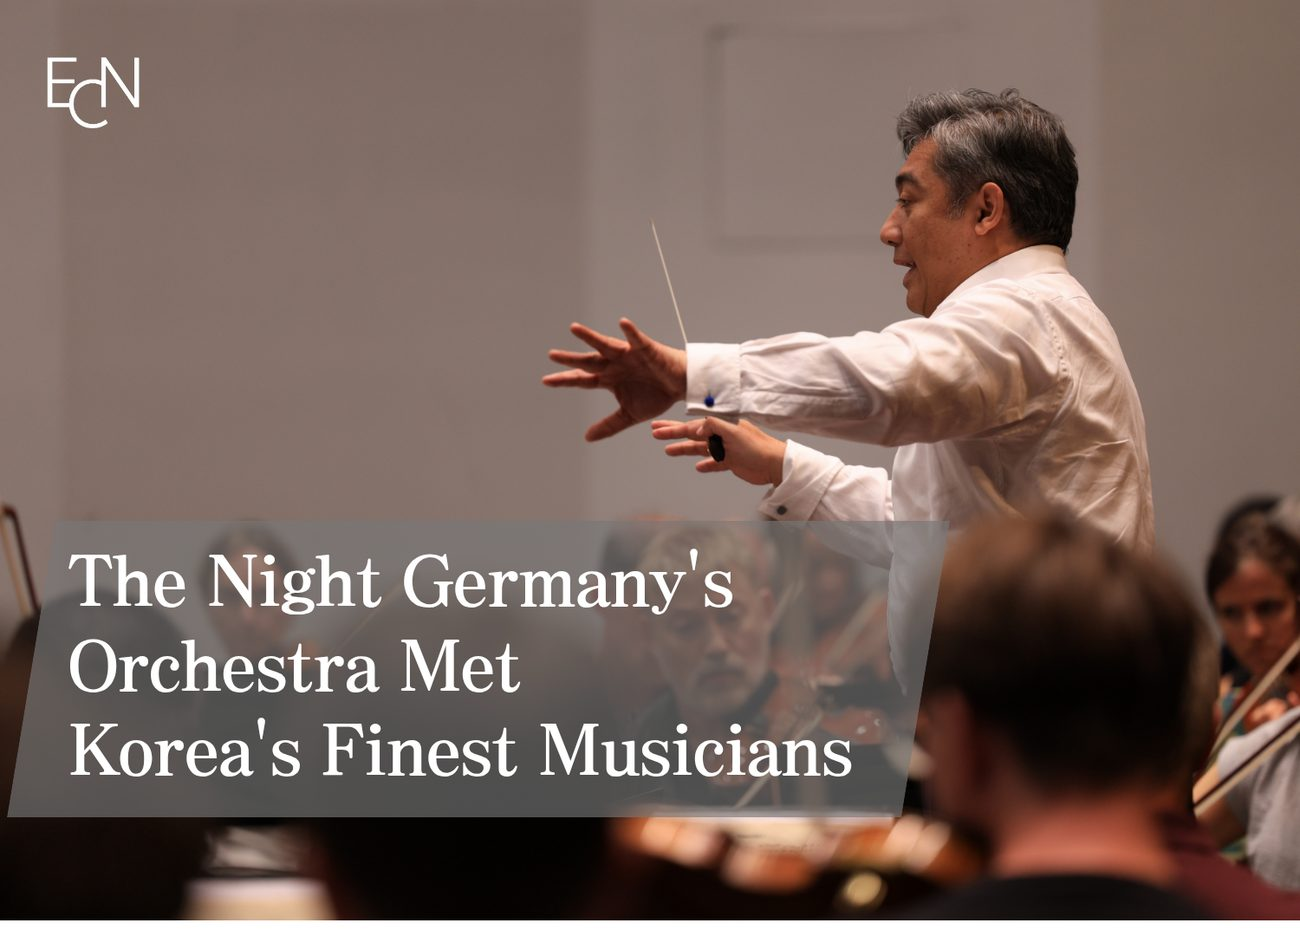
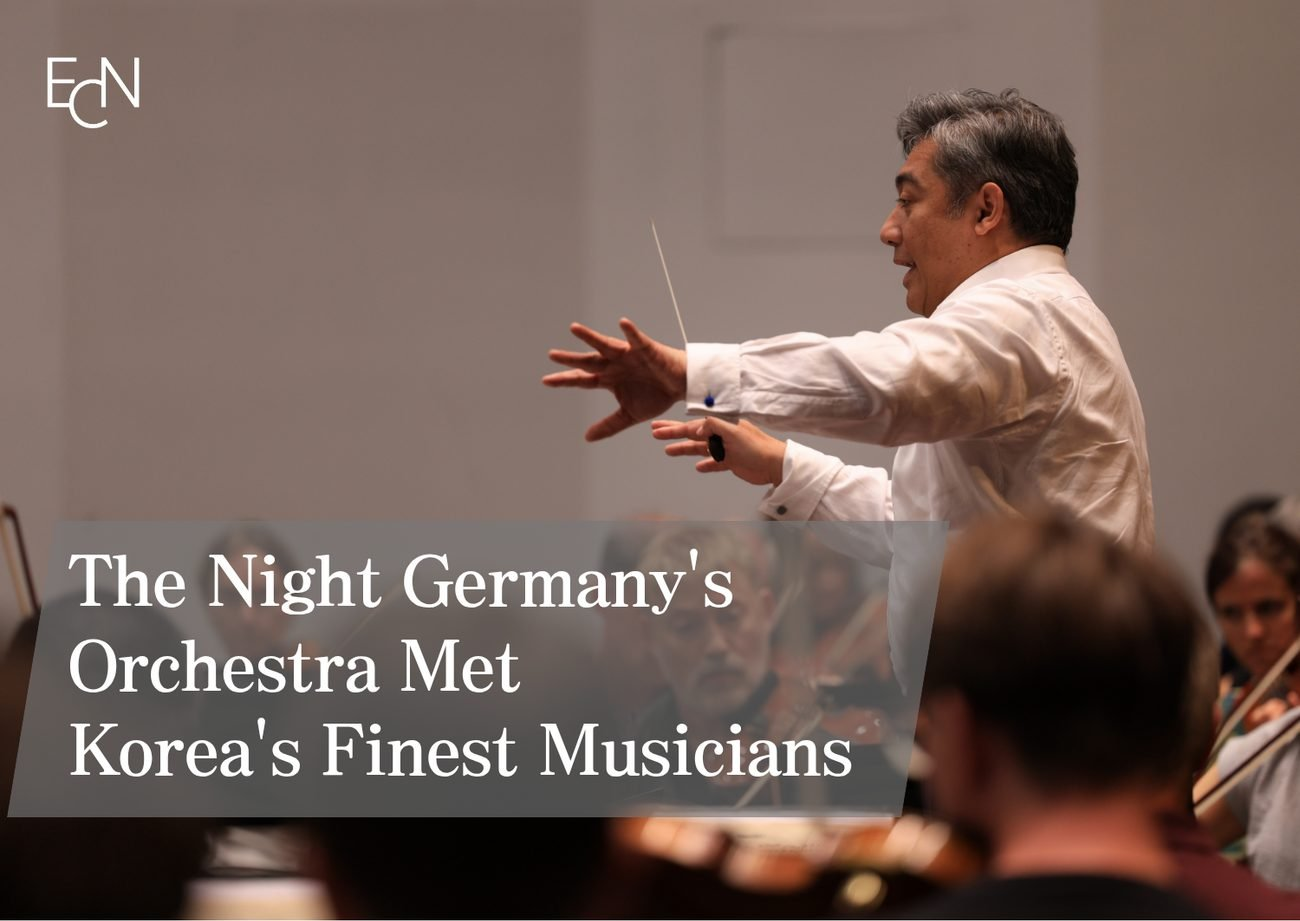
다시 수정

diff --git a/index.html b/index.html
@@ -91,11 +91,15 @@
   .topbar__left { display: flex; gap: 20px; align-items: center; flex-wrap: wrap; }
   .topbar__right { display: flex; gap: 18px; align-items: center; }
   .topbar__right a { position: relative; }
+  .topbar__ig { display: inline-flex; align-items: center; }
+  .topbar__ig svg { display: block; }
+  .topbar__ig:hover { color: var(--wine); }
   .topbar__right a + a::before {
     content: "";
     position: absolute; left: -10px; top: 50%; transform: translateY(-50%);
     width: 1px; height: 11px; background: var(--rule);
   }
+  .topbar__right a + a.topbar__ig::before { display: none; }
 
   /* ---------- Masthead ---------- */
   .masthead {
@@ -823,9 +827,10 @@
   .carousel__slide.is-on { opacity: 1; pointer-events: auto; }
   .carousel__slide img {
     width: 100%; height: 100%;
-    object-fit: cover; object-position: center 40%;
+    object-fit: cover; object-position: center center;
     display: block;
   }
+  .hero-v2__image .carousel__slide img { object-position: center center; }
   .carousel__nav {
     position: absolute; top: 50%; transform: translateY(-50%);
     width: 42px; height: 42px;
@@ -964,6 +969,32 @@
     transition: color 0.2s;
   }
   .icon-btn:hover { color: var(--wine); }
+
+  /* Share menu */
+  .share-wrap { position: relative; display: inline-block; }
+  .share-menu {
+    position: absolute; right: 0; bottom: calc(100% + 8px); z-index: 40;
+    min-width: 150px; padding: 6px;
+    background: var(--paper); border: 1px solid var(--rule);
+    border-radius: 4px; box-shadow: 0 8px 24px rgba(23,22,20,0.14);
+    display: flex; flex-direction: column;
+  }
+  .share-menu[hidden] { display: none; }
+  .share-menu a, .share-menu button {
+    display: block; width: 100%; text-align: left;
+    padding: 9px 12px; border: 0; background: transparent;
+    font-family: var(--f-ui); font-size: 12px; letter-spacing: 0.04em;
+    color: var(--ink-mute); border-radius: 3px; cursor: pointer;
+  }
+  .share-menu a:hover, .share-menu button:hover { background: var(--paper-warm); color: var(--wine); }
+  .share-toast {
+    position: fixed; left: 50%; bottom: 34px; transform: translateX(-50%);
+    background: var(--ink); color: var(--paper);
+    padding: 11px 22px; border-radius: 999px;
+    font-family: var(--f-ui); font-size: 12px; letter-spacing: 0.04em;
+    opacity: 0; pointer-events: none; transition: opacity 0.25s; z-index: 100;
+  }
+  .share-toast.is-on { opacity: 1; }
 
   /* Most Read sidebar */
   .most-read {
@@ -1333,7 +1364,13 @@
     </div>
     <div class="topbar__right">
       <a href="#downbeat">Newsletter</a>
-      <a href="ecn.html">About</a>
+      <a href="https://www.instagram.com/eurasiaclassicnews" target="_blank" rel="noopener" aria-label="ECN on Instagram" class="topbar__ig">
+        <svg viewBox="0 0 24 24" width="16" height="16" fill="none" stroke="currentColor" stroke-width="1.6" aria-hidden="true">
+          <rect x="2.5" y="2.5" width="19" height="19" rx="5.5"/>
+          <circle cx="12" cy="12" r="4.2"/>
+          <circle cx="17.4" cy="6.6" r="1.1" fill="currentColor" stroke="none"/>
+        </svg>
+      </a>
     </div>
   </div>
 
@@ -1429,7 +1466,15 @@
         <div class="hero-v2__actions" aria-label="Article actions">
           <a href="articles.html" class="hero-v2__read">Read the full article →</a>
           <button class="icon-btn" aria-label="Save"><svg viewBox="0 0 24 24" width="18" height="18" fill="none" stroke="currentColor" stroke-width="1.5"><path d="M20.84 4.61a5.5 5.5 0 0 0-7.78 0L12 5.67l-1.06-1.06a5.5 5.5 0 0 0-7.78 7.78l1.06 1.06L12 21.23l7.78-7.78 1.06-1.06a5.5 5.5 0 0 0 0-7.78z"/></svg></button>
-          <button class="icon-btn" aria-label="Share"><svg viewBox="0 0 24 24" width="16" height="16" fill="none" stroke="currentColor" stroke-width="1.5"><path d="M7 17L17 7M9 7h8v8"/></svg><span>Share</span></button>
+          <div class="share-wrap">
+            <button class="icon-btn" id="share-btn" aria-label="Share" aria-haspopup="true" aria-expanded="false"><svg viewBox="0 0 24 24" width="16" height="16" fill="none" stroke="currentColor" stroke-width="1.5"><path d="M7 17L17 7M9 7h8v8"/></svg><span>Share</span></button>
+            <div class="share-menu" id="share-menu" role="menu" hidden>
+              <a role="menuitem" href="#" data-share="email">Email</a>
+              <a role="menuitem" href="#" data-share="facebook" target="_blank" rel="noopener">Facebook</a>
+              <a role="menuitem" href="#" data-share="whatsapp" target="_blank" rel="noopener">WhatsApp</a>
+              <button role="menuitem" type="button" data-share="copy">Copy link</button>
+            </div>
+          </div>
         </div>
       </div>
     </article>
@@ -1833,9 +1878,9 @@
     <div class="foot__col">
       <h5>In partnership with IMK</h5>
       <ul>
-        <li>Lothringerstraße 20, 1030 Wien</li>
-        <li><span class="foot__k">Wiener Konzerthaus</span></li>
-        <li><a href="mailto:[email redacted]">[email redacted]</a></li>
+        <li>Verein für Internationale Musik- und Kulturförderung</li>
+        <li><span class="foot__k">Wien</span></li>
+        <li><a href="https://schwingungen.at/" target="_blank" rel="noopener">schwingungen.at →</a></li>
       </ul>
     </div>
 
@@ -1926,6 +1971,79 @@
       }).catch(function () {
         btn.textContent = 'Subscribe →';
         if (note) note.textContent = 'Something went wrong. Please try again.';
+      });
+    });
+  })();
+</script>
+<script>
+  (function () {
+    var btn = document.getElementById('share-btn');
+    var menu = document.getElementById('share-menu');
+    if (!btn || !menu) return;
+
+    // What gets shared: the main article. Adjust title/url as needed.
+    var shareUrl = window.location.origin + window.location.pathname.replace(/index\.html$/, '') ;
+    var shareTitle = document.title;
+
+    function open() { menu.hidden = false; btn.setAttribute('aria-expanded', 'true'); }
+    function close() { menu.hidden = true; btn.setAttribute('aria-expanded', 'false'); }
+
+    btn.addEventListener('click', function (e) {
+      e.stopPropagation();
+      menu.hidden ? open() : close();
+    });
+    document.addEventListener('click', function (e) {
+      if (!menu.hidden && !menu.contains(e.target) && e.target !== btn) close();
+    });
+
+    function toast(msg) {
+      var t = document.createElement('div');
+      t.className = 'share-toast';
+      t.textContent = msg;
+      document.body.appendChild(t);
+      requestAnimationFrame(function () { t.classList.add('is-on'); });
+      setTimeout(function () {
+        t.classList.remove('is-on');
+        setTimeout(function () { t.remove(); }, 300);
+      }, 1800);
+    }
+
+    menu.querySelectorAll('[data-share]').forEach(function (el) {
+      el.addEventListener('click', function (e) {
+        var type = el.getAttribute('data-share');
+        var u = encodeURIComponent(shareUrl);
+        var t = encodeURIComponent(shareTitle);
+
+        if (type === 'email') {
+          window.location.href = 'mailto:?subject=' + t + '&body=' + t + '%0A%0A' + u;
+        } else if (type === 'facebook') {
+          el.href = 'https://www.facebook.com/sharer/sharer.php?u=' + u;
+        } else if (type === 'whatsapp') {
+          el.href = 'https://wa.me/?text=' + t + '%20' + u;
+        } else if (type === 'copy') {
+          e.preventDefault();
+          var link = shareUrl;
+          function fallback() {
+            var ta = document.createElement('textarea');
+            ta.value = link;
+            ta.style.position = 'fixed'; ta.style.opacity = '0';
+            document.body.appendChild(ta); ta.focus(); ta.select();
+            var ok = false;
+            try { ok = document.execCommand('copy'); } catch (err) {}
+            ta.remove();
+            toast(ok ? 'Link copied ✓' : link);
+          }
+          if (navigator.clipboard && navigator.clipboard.writeText) {
+            navigator.clipboard.writeText(link).then(
+              function () { toast('Link copied ✓'); },
+              function () { fallback(); }
+            );
+          } else {
+            fallback();
+          }
+          close();
+        }
+        if (type !== 'copy') close();
       });
     });
   })();

diff --git a/get-featured.html b/get-featured.html
@@ -367,19 +367,19 @@
         <div class="fields">
           <div class="field">
             <label for="a-name">Name <span class="req">*</span></label>
-            <input id="a-name" name="Name" type="text" placeholder="Edwin E.S. Kim" required>
+            <input id="a-name" name="Name" type="text" placeholder="e.g. Anna Müller" required>
           </div>
           <div class="field">
             <label for="a-inst">Instrument <span class="req">*</span></label>
-            <input id="a-inst" name="Instrument" type="text" placeholder="Violin" required>
+            <input id="a-inst" name="Instrument" type="text" placeholder="e.g. Violin" required>
           </div>
           <div class="field">
             <label for="a-country">Country</label>
-            <input id="a-country" name="Country" type="text" placeholder="Republic of Korea">
+            <input id="a-country" name="Country" type="text" placeholder="e.g. Austria">
           </div>
           <div class="field">
             <label for="a-city">Current City</label>
-            <input id="a-city" name="Current City" type="text" placeholder="Seoul">
+            <input id="a-city" name="Current City" type="text" placeholder="e.g. Vienna">
           </div>
           <div class="field field--full">
             <label for="a-bio">Biography <span class="req">*</span></label>
@@ -425,7 +425,7 @@
         <div class="fields">
           <div class="field field--full">
             <label for="p-title">Concert title <span class="req">*</span></label>
-            <input id="p-title" name="Concert title" type="text" placeholder="Stuttgart Philharmonic · First Korea Tour" required>
+            <input id="p-title" name="Concert title" type="text" placeholder="e.g. Spring Gala Concert" required>
           </div>
           <div class="field">
             <label for="p-date">Date <span class="req">*</span></label>
@@ -437,19 +437,19 @@
           </div>
           <div class="field">
             <label for="p-venue">Venue <span class="req">*</span></label>
-            <input id="p-venue" name="Venue" type="text" placeholder="Lotte Concert Hall" required>
+            <input id="p-venue" name="Venue" type="text" placeholder="e.g. Grand Symphony Hall" required>
           </div>
           <div class="field">
             <label for="p-city">City</label>
-            <input id="p-city" name="City" type="text" placeholder="Seoul">
+            <input id="p-city" name="City" type="text" placeholder="e.g. Berlin">
           </div>
           <div class="field field--full">
             <label for="p-artists">Performers</label>
-            <input id="p-artists" name="Performers" type="text" placeholder="Conductor, orchestra, soloists">
+            <input id="p-artists" name="Performers" type="text" placeholder="e.g. City Symphony Orchestra, cond. Anna Müller">
           </div>
           <div class="field field--full">
             <label for="p-programme">Programme</label>
-            <textarea id="p-programme" name="Programme" placeholder="Beethoven — Coriolan Overture, Op. 62&#10;Beethoven — Triple Concerto in C, Op. 56&#10;Beethoven — Symphony No. 4, Op. 60"></textarea>
+            <textarea id="p-programme" name="Programme" placeholder="e.g.&#10;Mozart — Overture&#10;Brahms — Violin Concerto&#10;Dvořák — Symphony No. 9"></textarea>
           </div>
           <div class="field field--full">
             <label for="p-about">About the performance <span class="req">*</span></label>
@@ -475,7 +475,7 @@
 
   <footer class="foot">
     <span>© 2026 Eurasia Classic News · Editor Ji Sun Lee · <a href="mailto:[email redacted]">[email redacted]</a></span>
-    <span>In partnership with IMK · Lothringerstraße 20, 1030 Wien · <a href="mailto:[email redacted]">[email redacted]</a></span>
+    <span>In partnership with IMK · Wien · <a href="https://schwingungen.at/" target="_blank" rel="noopener">schwingungen.at</a></span>
   </footer>
 
 </div>

diff --git a/more.html b/more.html
@@ -448,8 +448,8 @@
       <div class="more-card">
         <h3>IMK</h3>
         <p>Our partner in Vienna.</p>
-        <p class="more-meta">Lothringerstraße 20, 1030 Wien<br>Wiener Konzerthaus</p>
-        <a class="more-link" href="mailto:[email redacted]">[email redacted]</a>
+        <p class="more-meta">Verein für Internationale Musik-<br>und Kulturförderung · Wien</p>
+        <a class="more-link" href="https://schwingungen.at/" target="_blank" rel="noopener">Visit IMK website →</a>
       </div>
 
       <div class="more-card">
@@ -462,7 +462,7 @@
 
   <footer class="foot">
     <span>© 2026 Eurasia Classic News · Editor Ji Sun Lee · <a href="mailto:[email redacted]">[email redacted]</a></span>
-    <span>In partnership with IMK · Lothringerstraße 20, 1030 Wien · <a href="mailto:[email redacted]">[email redacted]</a></span>
+    <span>In partnership with IMK · Wien · <a href="https://schwingungen.at/" target="_blank" rel="noopener">schwingungen.at</a></span>
   </footer>
 
 </div>

diff --git a/articles.html b/articles.html
@@ -534,7 +534,7 @@
 
   <footer class="foot">
     <span>© 2026 Eurasia Classic News · Editor Ji Sun Lee · <a href="mailto:[email redacted]">[email redacted]</a></span>
-    <span>In partnership with IMK · Lothringerstraße 20, 1030 Wien · <a href="mailto:[email redacted]">[email redacted]</a></span>
+    <span>In partnership with IMK · Wien · <a href="https://schwingungen.at/" target="_blank" rel="noopener">schwingungen.at</a></span>
   </footer>
 
 </div>

diff --git a/artists.html b/artists.html
@@ -443,7 +443,7 @@
 
   <footer class="foot">
     <span>© 2026 Eurasia Classic News · Editor Ji Sun Lee · <a href="mailto:[email redacted]">[email redacted]</a></span>
-    <span>In partnership with IMK · Lothringerstraße 20, 1030 Wien · <a href="mailto:[email redacted]">[email redacted]</a></span>
+    <span>In partnership with IMK · Wien · <a href="https://schwingungen.at/" target="_blank" rel="noopener">schwingungen.at</a></span>
   </footer>
 
 </div>

diff --git a/ecn.html b/ecn.html
@@ -473,7 +473,7 @@
 
   <footer class="foot">
     <span>© 2026 Eurasia Classic News · Editor Ji Sun Lee · <a href="mailto:[email redacted]">[email redacted]</a></span>
-    <span>In partnership with IMK · Lothringerstraße 20, 1030 Wien · <a href="mailto:[email redacted]">[email redacted]</a></span>
+    <span>In partnership with IMK · Wien · <a href="https://schwingungen.at/" target="_blank" rel="noopener">schwingungen.at</a></span>
   </footer>
 
 </div>

diff --git a/review.html b/review.html
@@ -677,7 +677,7 @@
 
   <footer class="art-foot">
     <span>© 2026 Eurasia Classic News · Editor Ji Sun Lee · <a href="mailto:[email redacted]">[email redacted]</a></span>
-    <span>In partnership with IMK · Lothringerstraße 20, 1030 Wien · <a href="mailto:[email redacted]">[email redacted]</a></span>
+    <span>In partnership with IMK · Wien · <a href="https://schwingungen.at/" target="_blank" rel="noopener">schwingungen.at</a></span>
   </footer>
 
 </div>

diff --git a/review2.html b/review2.html
@@ -697,7 +697,7 @@
 
   <footer class="art-foot">
     <span>© 2026 Eurasia Classic News · Editor Ji Sun Lee · <a href="mailto:[email redacted]">[email redacted]</a></span>
-    <span>In partnership with IMK · Lothringerstraße 20, 1030 Wien · <a href="mailto:[email redacted]">[email redacted]</a></span>
+    <span>In partnership with IMK · Wien · <a href="https://schwingungen.at/" target="_blank" rel="noopener">schwingungen.at</a></span>
   </footer>
 
 </div>

diff --git a/spotlight.html b/spotlight.html
@@ -408,7 +408,7 @@
 
   <footer class="foot">
     <span>© 2026 Eurasia Classic News · Editor Ji Sun Lee · <a href="mailto:[email redacted]">[email redacted]</a></span>
-    <span>In partnership with IMK · Lothringerstraße 20, 1030 Wien · <a href="mailto:[email redacted]">[email redacted]</a></span>
+    <span>In partnership with IMK · Wien · <a href="https://schwingungen.at/" target="_blank" rel="noopener">schwingungen.at</a></span>
   </footer>
 
 </div>

diff --git a/video.html b/video.html
@@ -394,7 +394,7 @@
 
   <footer class="foot">
     <span>© 2026 Eurasia Classic News · Editor Ji Sun Lee · <a href="mailto:[email redacted]">[email redacted]</a></span>
-    <span>In partnership with IMK · Lothringerstraße 20, 1030 Wien · <a href="mailto:[email redacted]">[email redacted]</a></span>
+    <span>In partnership with IMK · Wien · <a href="https://schwingungen.at/" target="_blank" rel="noopener">schwingungen.at</a></span>
   </footer>
 
 </div>

diff --git a/whats-on.html b/whats-on.html
@@ -394,7 +394,7 @@
 
   <footer class="foot">
     <span>© 2026 Eurasia Classic News · Editor Ji Sun Lee · <a href="mailto:[email redacted]">[email redacted]</a></span>
-    <span>In partnership with IMK · Lothringerstraße 20, 1030 Wien · <a href="mailto:[email redacted]">[email redacted]</a></span>
+    <span>In partnership with IMK · Wien · <a href="https://schwingungen.at/" target="_blank" rel="noopener">schwingungen.at</a></span>
   </footer>
 
 </div>